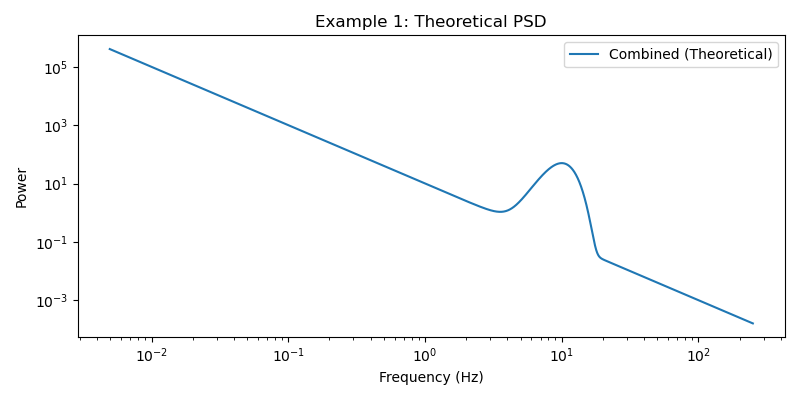
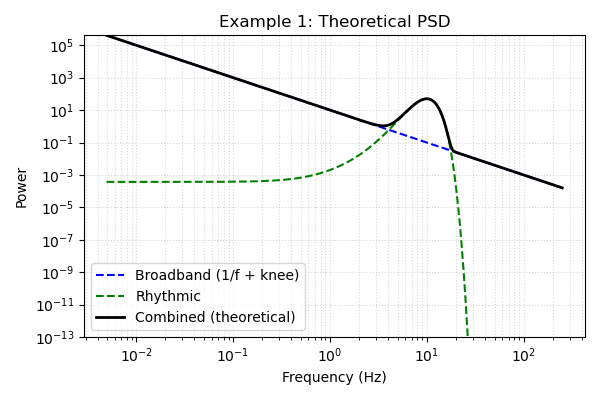
update figures for readme

diff --git a/scripts/generate_figures.py b/scripts/generate_figures.py
@@ -22,32 +22,8 @@ def example1():
         average_firing_rate=0.0,
         random_state=42,
         direct_estimate=False,  # skip empirical PSD estimation
-        plot=False             # we will handle plotting manually
+        plot=True             # we will handle plotting manually
     )
-    
-    # Print basic info about the simulation
-    td = res.time_domain
-    fd = res.frequency_domain
-    print("Example 1:")
-    print("  Time-domain samples:", len(td))
-    print("  Combined signal mean:", td.combined_signal.mean())
-    print("  Number of frequency bins:", len(fd))
-    
-    # Plot and save time-domain signal
-    plt.figure(figsize=(8,4))
-    plt.plot(td.time, td.combined_signal, label="Combined Signal")
-    plt.xlabel("Time (s)")
-    plt.ylabel("Amplitude")
-    plt.title("Example 1: Time-Domain Signal")
-    plt.legend()
-    plt.tight_layout()
-    plt.savefig("static/example1_time_signal.png")
-    plt.close()
-    
-    # Plot and save the theoretical PSD (frequency domain)
-    plt.figure(figsize=(8,4))
-    mask = fd.frequencies > 0
-    plt.loglog(fd.frequencies[mask], fd.combined_spectrum[mask], label="Combined (Theoretical)")
     plt.xlabel("Frequency (Hz)")
     plt.ylabel("Power")
     plt.title("Example 1: Theoretical PSD")
@@ -75,21 +51,11 @@ def example2():
         average_firing_rate=0.0,
         random_state=0,
         direct_estimate=True,  # enable empirical PSD estimation
-        plot=False             # we handle plotting below
+        plot=True             # we handle plotting below
     )
     
-    fd = res_emp.frequency_domain
     print("Example 2:")
-    print("  Number of frequency bins:", len(fd))
-    if fd.empirical_spectrum is not None:
-        print("  Empirical PSD shape:", fd.empirical_spectrum.shape)
-    
-    # Plot and save the PSD comparison (theoretical vs. empirical)
-    plt.figure(figsize=(8,4))
-    mask = fd.frequencies > 0
-    plt.loglog(fd.frequencies[mask], fd.combined_spectrum[mask], label="Combined (Theoretical)")
-    if fd.empirical_spectrum is not None:
-        plt.loglog(fd.frequencies[mask], fd.empirical_spectrum[mask], '--', label="Empirical")
+ 
     plt.xlabel("Frequency (Hz)")
     plt.ylabel("Power")
     plt.title("Example 2: Theoretical vs Empirical PSD")

diff --git a/README.md b/README.md
@@ -49,15 +49,6 @@ res = spectrum(
     direct_estimate=False,  # skip empirical PSD
     plot=True
 )
-
-# Access the time-domain data
-time_data = res.time_domain
-print("Time-domain samples:", len(time_data))
-print("Mean amplitude:", time_data.combined_signal.mean())
-
-# Access the frequency-domain data
-freq_data = res.frequency_domain
-print("Number of freq bins:", len(freq_data))
 ```
 
 #### 2. Empirical PSD Estimation
